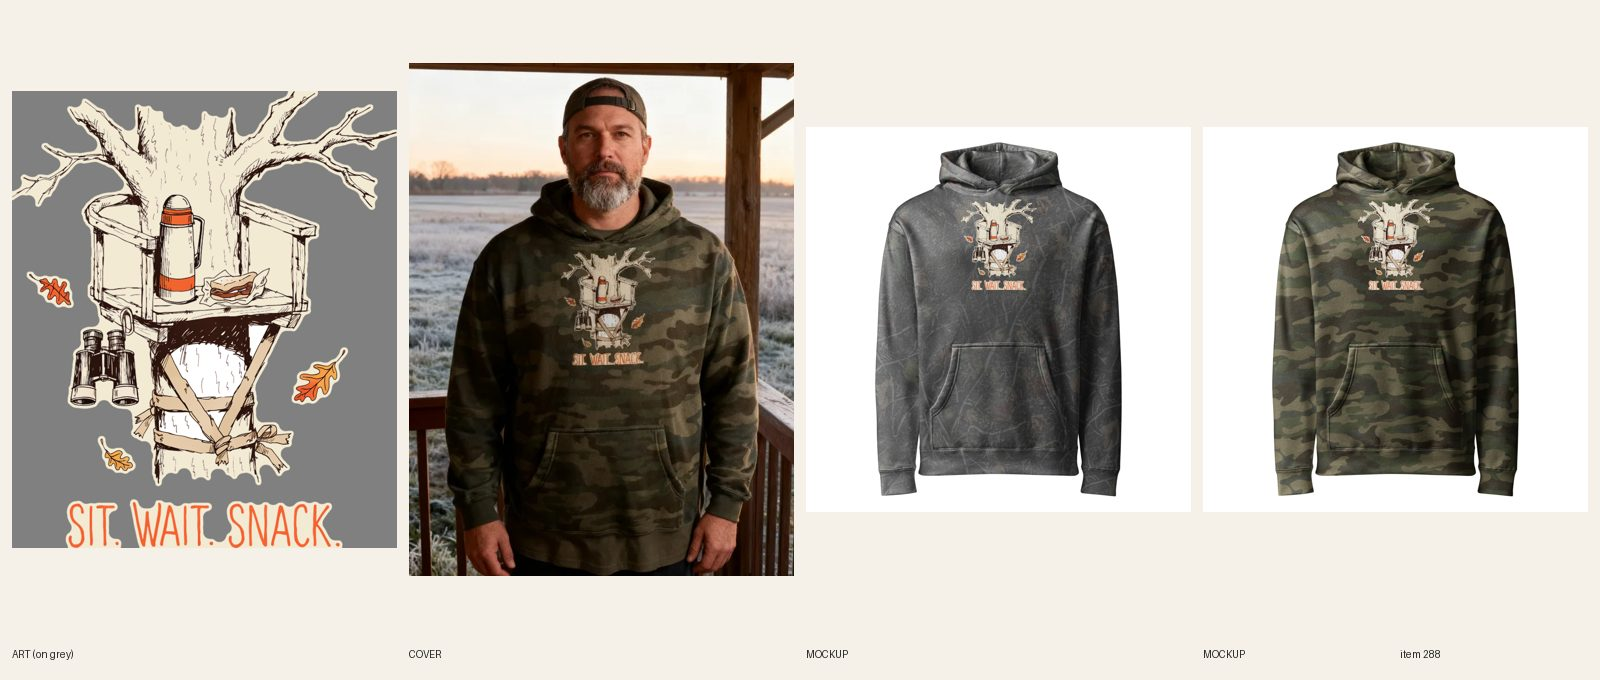
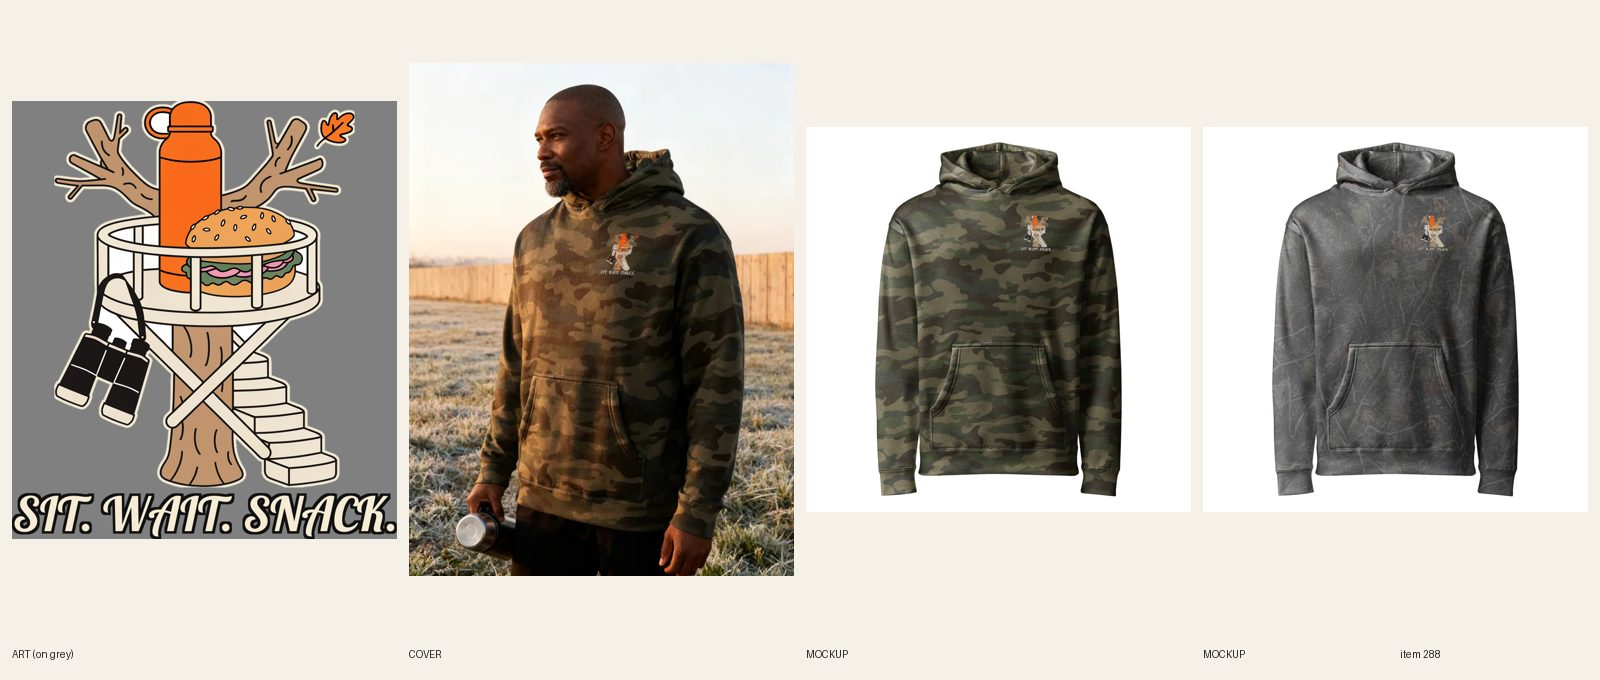
[B] review 288 camo redo 8 (cartoon tree stand B3 print, lifestyle photos); run end, release lock

diff --git a/src/data/covers.ts b/src/data/covers.ts
@@ -308,7 +308,7 @@ export const covers: Record<string, { src: string; alt: string }> = {
   'womens-embroidered-morel-support-mushroom-hoodie': { src: '/covers/womens-embroidered-morel-support-mushroom-hoodie.webp', alt: 'Woman in her early 30s with a platinum-blonde low bun in a Sand Morel Support embroidered mushroom hoodie on a fall forest trail with a foraging basket' },
   'womens-embroidered-purrsonal-space-cat-hoodie': { src: '/covers/womens-embroidered-purrsonal-space-cat-hoodie.webp', alt: 'Woman in her mid 20s with a short black bob in a Sand Purrsonal Space embroidered cat hoodie in a reading nook by a rainy window with a cat on the cushion beside her' },
   'mens-gym-sore-since-1987-oversized-hoodie': { src: '/covers/mens-gym-sore-since-1987-oversized-hoodie.webp', alt: 'Man in his mid 20s with a shaved head in a Navy Sore Since 1987 oversized gym hoodie in a busy weight room with a dumbbell rack behind him' },
-  'mens-hunting-sit-wait-snack-camo-hoodie': { src: '/covers/mens-hunting-sit-wait-snack-camo-hoodie.webp', alt: 'Man in his mid 40s with a salt-and-pepper beard and a ball cap pushed back in a Forest Camo Sit Wait Snack hoodie on a deer camp cabin porch at dawn with a frosty field behind him' },
+  'mens-hunting-sit-wait-snack-camo-hoodie': { src: '/covers/mens-hunting-sit-wait-snack-camo-hoodie.webp', alt: 'Man with a shaved head and trimmed goatee holding a steel thermos on a frosty morning in a Forest Camo Sit Wait Snack tree stand hoodie' },
   'mens-hunting-long-beard-short-temper-camo-hoodie': { src: '/covers/mens-hunting-long-beard-short-temper-camo-hoodie.webp', alt: 'Man in his late 40s with a thick ginger beard in a Forest Camo Long Beard Short Temper turkey hoodie on a hardwood ridge at sunrise' },
   'mens-hunting-im-not-yelling-im-bugling-camo-hoodie': { src: '/covers/mens-hunting-im-not-yelling-im-bugling-camo-hoodie.webp', alt: 'Man in his late 30s with a long black ponytail in a Forest Camo I\'m Not Yelling I\'m Bugling elk hoodie in a high mountain meadow at golden hour with aspens behind him' },
   'mens-hunting-fluent-in-honk-camo-hoodie': { src: '/covers/mens-hunting-fluent-in-honk-camo-hoodie.webp', alt: 'Man in his early 40s with short gray hair in a Duck Camo Fluent in Honk goose hoodie standing in a flooded cornfield at first light with Canada geese behind him' },

diff --git a/docs/intake-log.md b/docs/intake-log.md
@@ -1,4 +1,5 @@
-RUNNING lane B since 2026-10-25 13:35 UTC
+2026-10-25 13:42 UTC — [B] Builder run end: 2 items, camo redo #7 #290 (woodcut turkey, A+) and #8 #288 (cartoon tree stand, B3); both ACTIVE, director to confirm. New products today: 0 of 6. Lock released.
+2026-10-25 13:42 UTC — [B] REVIEW #288 Men's Hunting – Sit Wait Snack Camo Hoodie (camo-redo 8 of 27, S3 on B3, FW625 TOP300 LEFT1475, 14/14 on 1094534966, line 100%, art 88% of height, Lobster; 2 lifestyle photos). fal ~$0.50.
 2026-10-25 13:35 UTC — [B] REVIEW #290 Men's Hunting – Long Beard Short Temper Camo Hoodie (camo-redo 7 of 27, S9 on A+, FW1500 TOP400, 14/14 on 1094531100, headline 2985 / punch 3006 px = 100%, subject 80%, Rye; 2 lifestyle photos). fal ~$0.26.
 2026-10-24 23:44 UTC — [H] Helper run: Telegram inbox empty (getUpdates returned 0 updates; nothing to consume, no pause, resume or TikTok links). Shopify: 0 orders since 2026-10-24 14:50 UTC, so no order alert and no Printful hold check. Audit 726 live products: 7 ERRORs (same cover and garment-grid visual errors already noted, left for the director; noted again in docs/inbox.md), 155 warnings left alone; no scripted fixes; committed docs/cohesion-audit.md and .json. Price errors: none. Category check: 0 products without a Shopify category (no mutation). Site freshness: womens-cat-clocked-it-said-nothing-embroidered-zip-hoodie, mens-gym-squire-spot-me-embroidered-zip-hoodie and mens-gym-twelve-labors-zero-cardio-embroidered-zip-hoodie all 200 at /products/; homepage 200. Stuck work: no BUILDING items; no lane lock held. Daily summary not due (sent at the 14:50 run; next due on the first run after 12:00 UTC tomorrow). Lock released.
 2026-10-24 23:13 UTC — [D] Director run: inbox nothing new (still waiting on Sam for the #457/#458 Hanukkah line). Reviewed 2 camo redo sheets: #300 Doe Not Disturb LIVE (in place, already ACTIVE, not a new product; S5 doe on A+ reads on both camos, 2 lifestyle photos, audit --handle PASS 0 warn); #233 Pro Tree Sitter REDO (R5.3.4/R5.3.7 stray deer-head emblem behind the stand, R5.3.8 pure-white gaps in the stand frame, clown-orange nose, no lifestyle photos). Recurring (3rd B3 item with every photo garbled: #303, #289, #233): B3 photo line added to docs/backlog/camo-redo.md. No new LIVE products: Oct 24 Chicago cap (6) reached at the 14:41 run. No new briefs: 56 READY, over the 6-12 target. No Telegram (not a digest run; nothing needs Sam). Lock released.

diff --git a/docs/pipeline/288-camo-hoodie-sit-wait-snack.md b/docs/pipeline/288-camo-hoodie-sit-wait-snack.md
@@ -1,4 +1,4 @@
-status: REDO
+status: REVIEW
 lane: B
 type: new
 id: 288
@@ -26,3 +26,4 @@ handle: mens-hunting-sit-wait-snack-camo-hoodie
 - 2026-10-17 01:15 UTC director: LIVE. Reviewed docs/review/288.jpg + Shopify copy; set ACTIVE, published to Online Store, Headless and Google & YouTube; cohesion-audit --handle PASS.
 - 2026-10-22 22:00 UTC Claude (Sam): REDO, camo redo #8 of 27, style S3. New art in its own style, no box, no condensed sans, placement per docs/backlog/camo-redo.md (never TOP 0). Redo in place.
 - 2026-10-22 22:40 UTC Claude (Sam): placement A/B test, this item is B3 (left chest at the seam, tag placement-b).
+- 2026-10-25 13:42 UTC [B]: camo-redo #8 (S3 cute cartoon on B3, tag placement-b), in place on product 15362661417264. New art: 1 Recraft call (chunky cartoon ladder tree stand, orange thermos, sandwich, binoculars, leaf; no lettering), thin cream halo; line SIT. WAIT. SNACK. (3 words) set in Lobster (cream, dark keyline; faces of last 5 lane B builds: Rye, Caveat Brush, Cinzel, Bowlby, Fraunces; Lobster not among them). Single line, 7h n/a (line 100% of print width). Art 88% of print height, cap height ~75 px at FW625 (>= 53). Print 2500 x 2847, FW625 TOP300 LEFT1475. R7.7: Darkwood Tree Camo + Forest Camo 14/14 on file 1094534966, back logo 1080398177. Front mockups replaced in place (first sync attempt hit an unprocessed file and was rerun). Copy, SEO, FAQ (4 x 40-60 words) rewritten, tag placement-b added; title unchanged. Lifestyle: registry 1152; 3 seedream calls: call 1 rejected (second stray graphic at the hem, deer on roof), call 2 kept as cover (frosty field with thermos; caption a soft blur, icon reads as the tree stand with orange thermos), call 3 kept as image 2 (tailgate sandwich). Audit PASS 0 warn after trimming meta. Sheet docs/review/288.jpg. Product is ACTIVE: director to confirm. fal ~$0.78 incl. art.

diff --git a/docs/model-registry.md b/docs/model-registry.md
@@ -944,3 +944,4 @@ Rows 11–43 were re-pointed on 2026-10-08 when the briefs were rewritten from d
 | 1149 | Chinese-American woman, mid 30s, shoulder-length wavy black hair with a few grey strands, no hat, medium build | USED 2026-10-24 — #300 camo redo cover + second photo |
 | 1150 | Vietnamese-American man, late 30s, short black hair with a light goatee, lean build | USED 2026-10-24 — #233 camo redo cover + second photo |
 | 1151 | White man, late 40s, short sandy hair, thick ginger beard going grey, broad build, no hat | USED 2026-10-25 — #290 camo redo cover + second photo |
+| 1152 | Black man, early 40s, shaved head, trimmed goatee, stocky build, no hat | USED 2026-10-25 — #288 camo redo cover + second photo |
